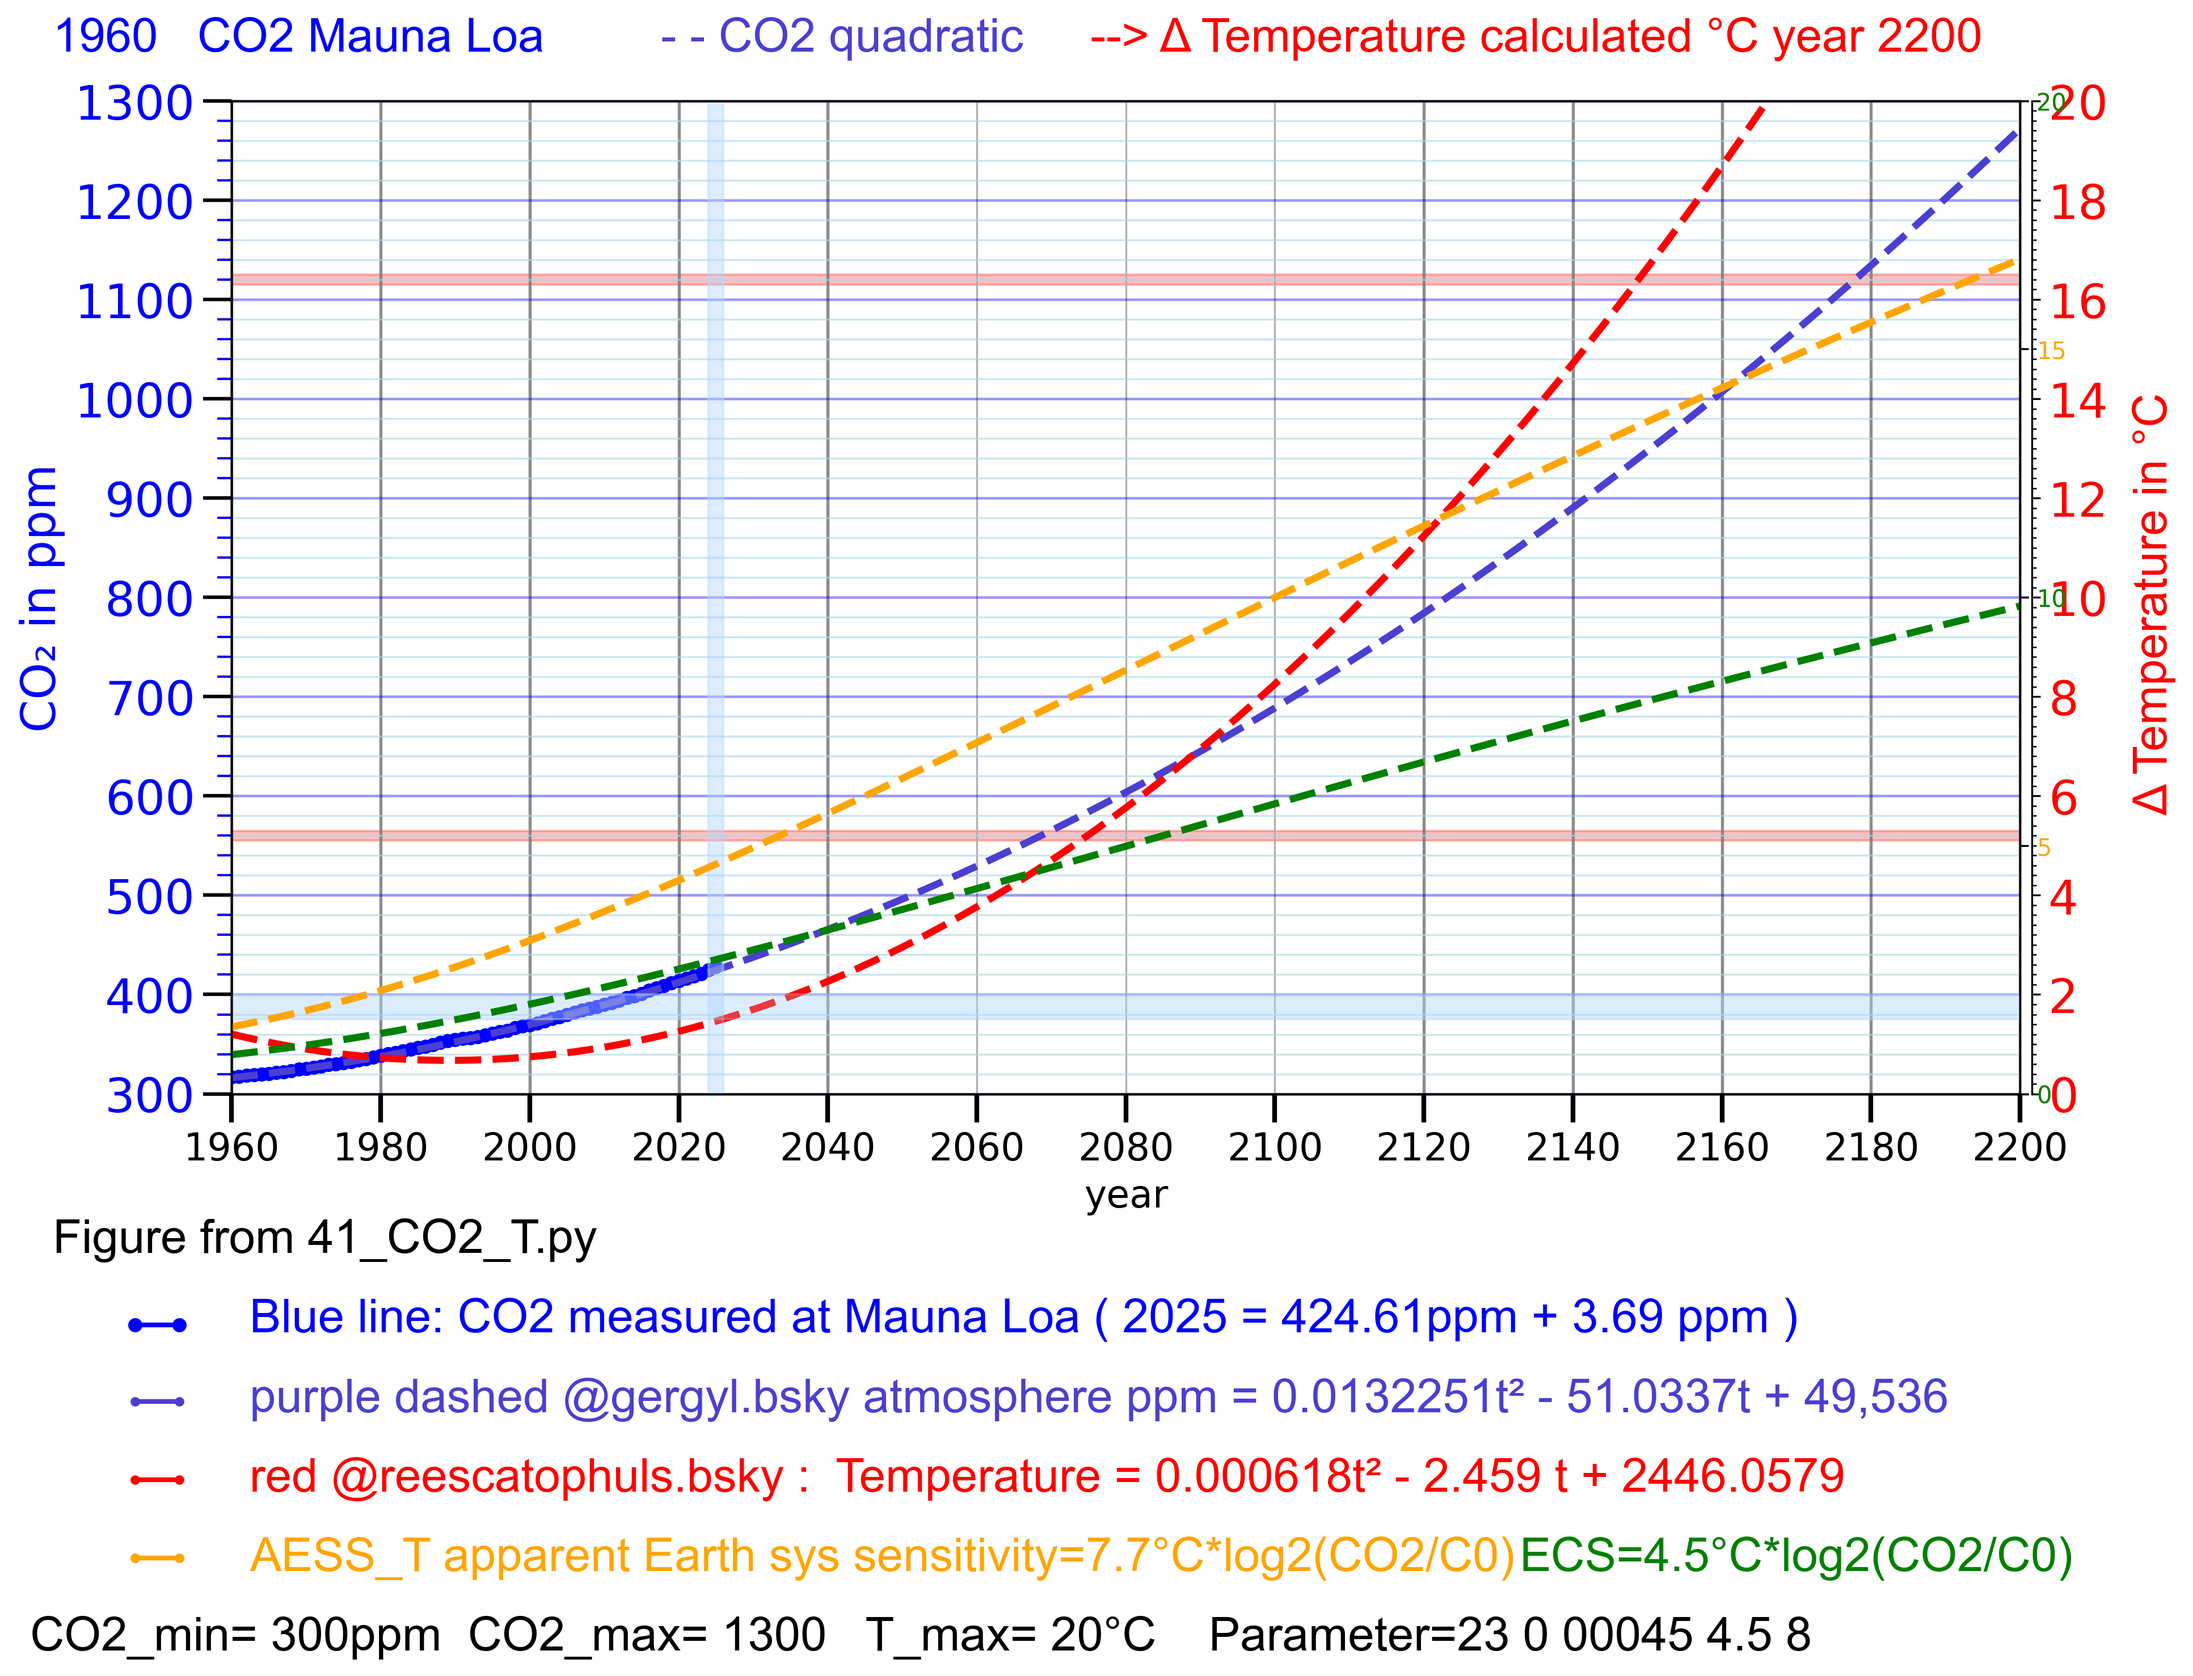
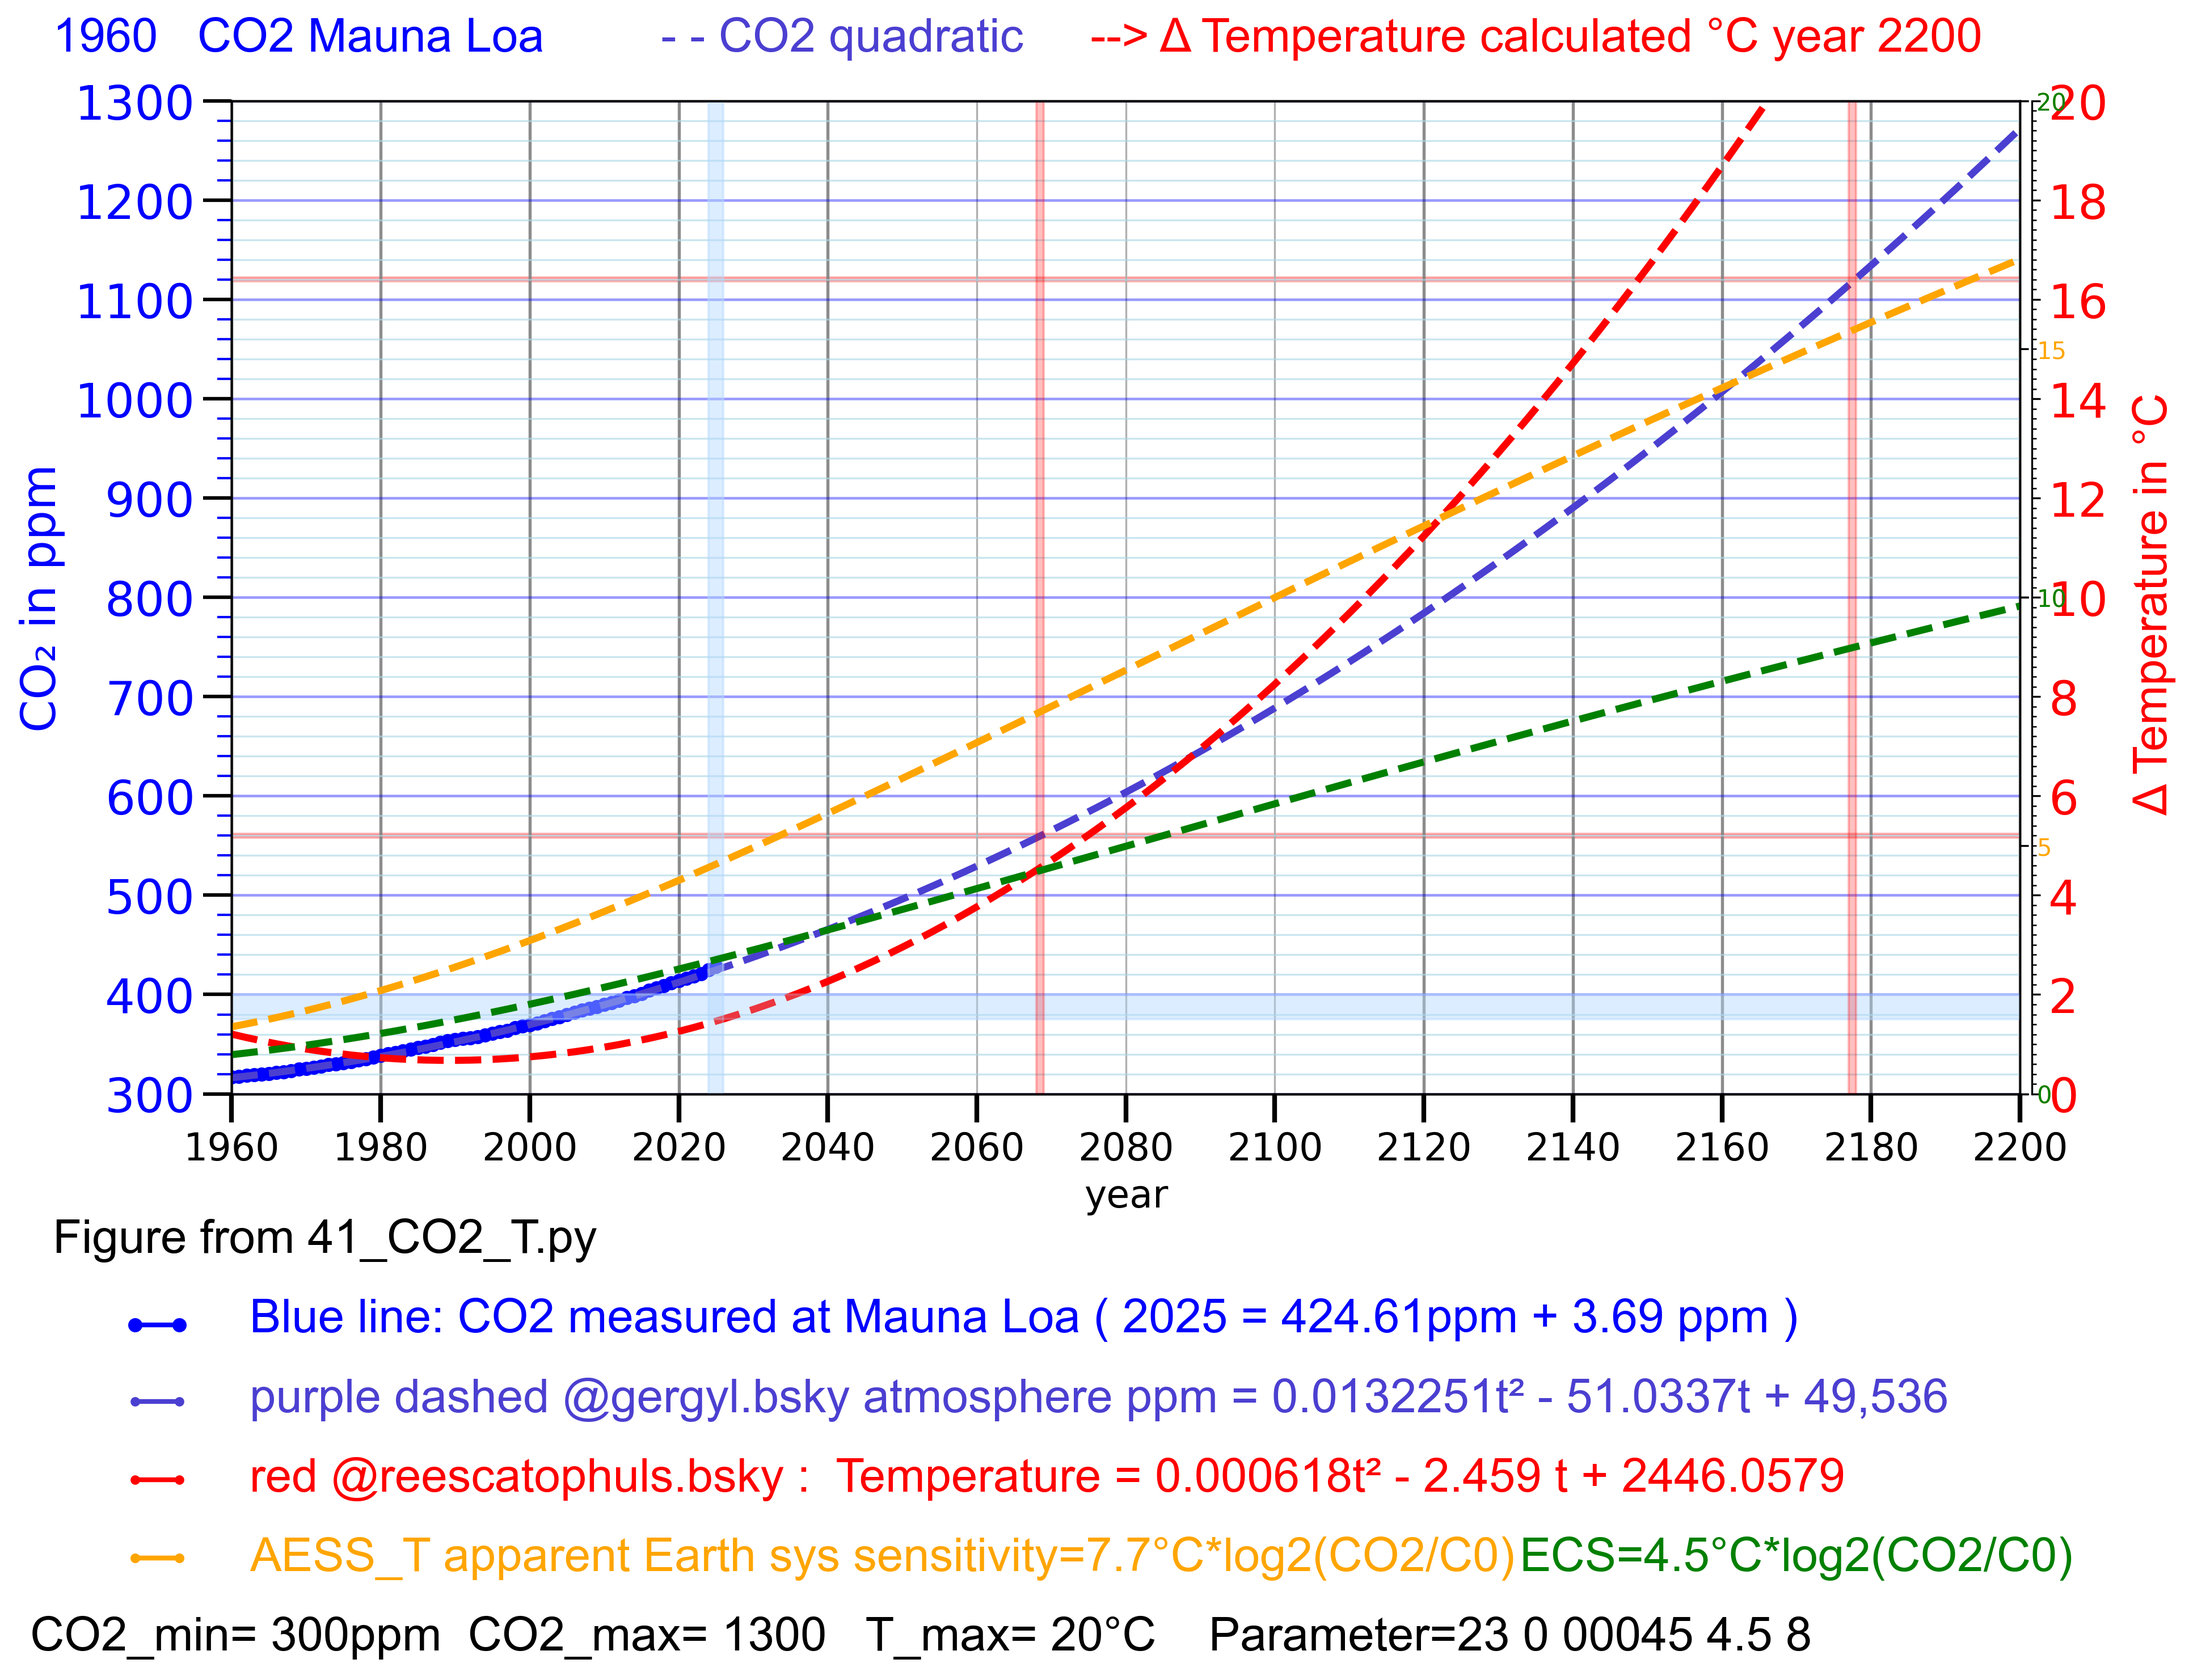
41m2_CO2_T.py lines 560=2068, 2069    1120 ppm 2177

Changed region(s): [[0.1242, 0.0623, 0.9002, 0.6538]]

diff --git a/41_CO2_T.py b/41_CO2_T.py
@@ -49,15 +49,15 @@ c73 = "green" # plot73 color
 parameter84_save_png = 8 # save png
 
 # 1.3.1 scale the left Y axis
-y_min = 1110 # 300 # min value 280
-y_max = 1130 # 1300 # min value 440 70
+y_min = 300 # 300 # min value 280
+y_max = 1300 # 1300 # min value 440 70
 
 # 1.3.2 scale the right Y axis
 y_Tmin = 0 # min value °C
 y_Tmax = 20 # 4 # max value C
 
-x_anf = 2170 # 1960 2000 
-x_end = 2180 # 2200 2026 
+x_anf = 1960 # 1960 2000 
+x_end = 2200 # 2200 2026 
 
 ydiff = (y_max - y_min) / 10 # for y axis scale print
 xdiff = (x_end - x_anf) / 10 # for legend print
@@ -183,14 +183,14 @@ ax1.grid(True)
 # 2.7 scale the Y value 280 ppm to 440 ppm y_grid_CO2 = 20
 if scale_mode == 10:
    ax1.set_ylim(y_min, y_max)
-   ax1.yaxis.set_major_locator(MultipleLocator(10))   # Hauptstriche
-   ax1.yaxis.set_minor_locator(MultipleLocator(2))    # Nebenstriche
+   ax1.yaxis.set_major_locator(MultipleLocator(100))   # Hauptstriche
+   ax1.yaxis.set_minor_locator(MultipleLocator(20))    # Nebenstriche
    ax1.tick_params(axis='y', which='major', length=12, width=1.5)
    ax1.tick_params(axis='y', which='minor', length=6,  width=1, color='blue')
    # 2.8 scale the X value time = 20
-   ax1.xaxis.set_major_locator(MultipleLocator(2))   # Hauptstriche
+   ax1.xaxis.set_major_locator(MultipleLocator(20))   # Hauptstriche
    ax1.tick_params(axis='x', which='major', length=12, width=2) # all 2 years
-   ax1.xaxis.set_minor_locator(MultipleLocator(1))   # Nebenstriche
+   ax1.xaxis.set_minor_locator(MultipleLocator(10))   # Nebenstriche
    ax1.tick_params(axis='x', which='minor', length=4,  width=1)
    # ax1.grid(True, which="major", color="darkblue", alpha=1) # big net 20 ppm
    ax1.grid(True, which="minor", color="lightblue", alpha=0.64)
